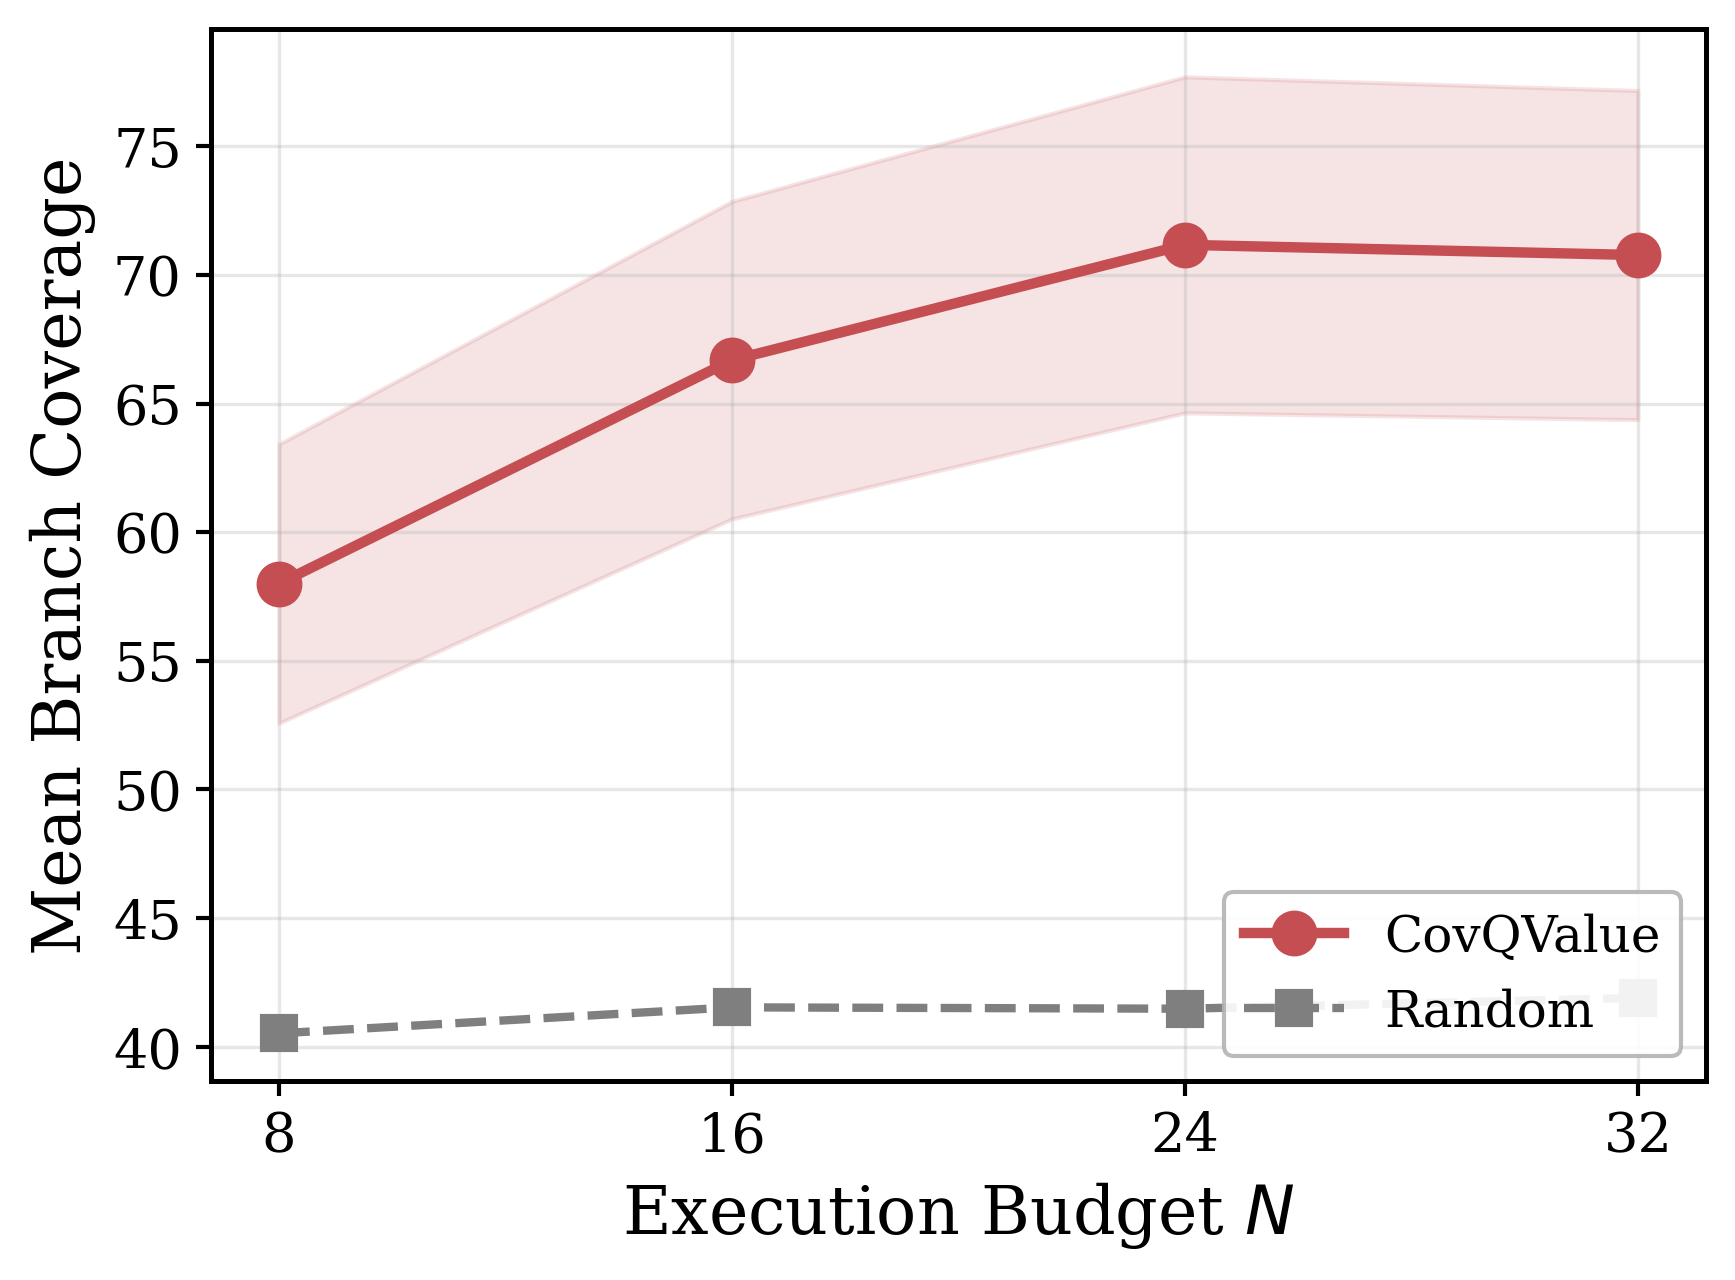
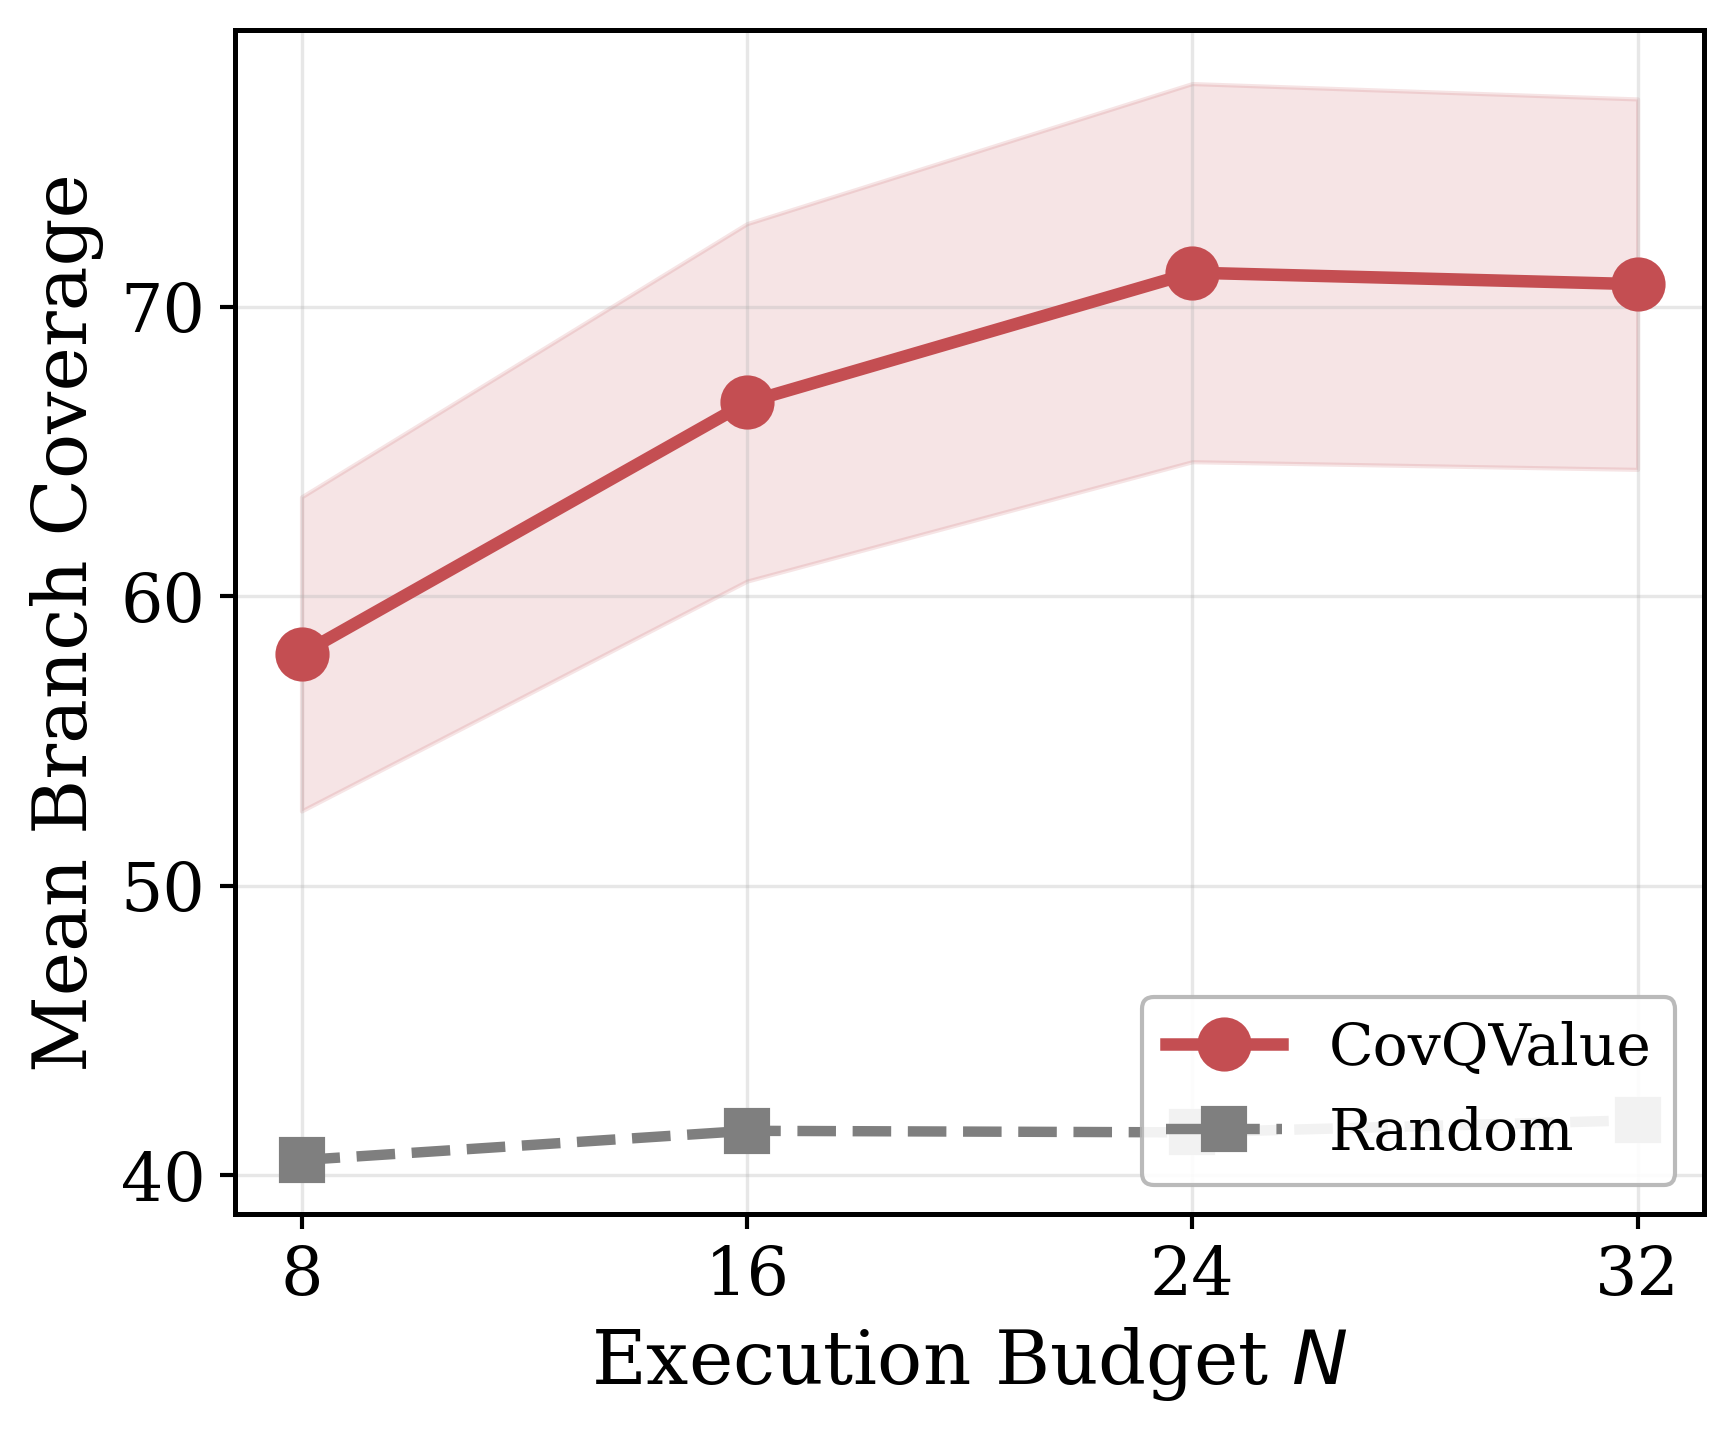
Increase ablation plot font sizes for 50% textwidth display

diff --git a/plots/paper_ablations.py b/plots/paper_ablations.py
@@ -49,7 +49,10 @@ def fig_ablation_budget_and_s():
     """Separate figures: budget scaling + S matched."""
 
     # --- Budget scaling ---
-    fig, ax = plt.subplots(figsize=(6, 4.5))
+    fig, ax = plt.subplots(figsize=(6, 5))
+    ax.tick_params(labelsize=16)
+    ax.xaxis.label.set_size(18)
+    ax.yaxis.label.set_size(18)
 
     data = json.load(open(RESULTS_DIR / "ablation_exec_budget.json"))
     results = data["results"]
@@ -64,18 +67,18 @@ def fig_ablation_budget_and_s():
         qv_ses.append(np.std(qv) / np.sqrt(len(qv)))
         rand_means.append(np.mean(rn))
 
-    ax.plot(budgets, qv_means, "o-", color=COV_QVALUE_COLOR, linewidth=2.5,
-            markersize=10, label="CovQValue", zorder=3)
+    ax.plot(budgets, qv_means, "o-", color=COV_QVALUE_COLOR, linewidth=3,
+            markersize=12, label="CovQValue", zorder=3)
     ax.fill_between(budgets,
                      [m - s for m, s in zip(qv_means, qv_ses)],
                      [m + s for m, s in zip(qv_means, qv_ses)],
                      color=COV_QVALUE_COLOR, alpha=0.15)
-    ax.plot(budgets, rand_means, "s--", color=RANDOM_COLOR, linewidth=2,
-            markersize=8, label="Random", zorder=3)
+    ax.plot(budgets, rand_means, "s--", color=RANDOM_COLOR, linewidth=2.5,
+            markersize=10, label="Random", zorder=3)
 
     ax.set_xlabel("Execution Budget $N$")
     ax.set_ylabel("Mean Branch Coverage")
-    ax.legend(loc="lower right")
+    ax.legend(loc="lower right", fontsize=14)
     ax.grid(True, alpha=0.3)
     ax.set_xticks(budgets)
 
@@ -86,7 +89,10 @@ def fig_ablation_budget_and_s():
     print("Saved fig_ablation_budget")
 
     # --- S matched rounds ---
-    fig, ax = plt.subplots(figsize=(6, 4.5))
+    fig, ax = plt.subplots(figsize=(6, 5))
+    ax.tick_params(labelsize=16)
+    ax.xaxis.label.set_size(18)
+    ax.yaxis.label.set_size(18)
 
     data_s = json.load(open(RESULTS_DIR / "ablation_S_matched.json"))
     results_s = data_s["results"]
@@ -105,12 +111,12 @@ def fig_ablation_budget_and_s():
     for i, (s, m, se) in enumerate(zip(s_values, s_means, s_ses)):
         budget = 8 * s
         ax.annotate(f"$N$={budget}", (i, m + se + 1.5),
-                   ha="center", fontsize=12, color="#555555")
+                   ha="center", fontsize=14, color="#555555")
 
     ax.set_xlabel("Plan Length $S$")
     ax.set_ylabel("Mean Branch Coverage")
     ax.set_xticks(x)
-    ax.set_xticklabels([str(s) for s in s_values])
+    ax.set_xticklabels([str(s) for s in s_values], fontsize=16)
     ax.grid(True, alpha=0.3, axis="y")
 
     plt.tight_layout()
